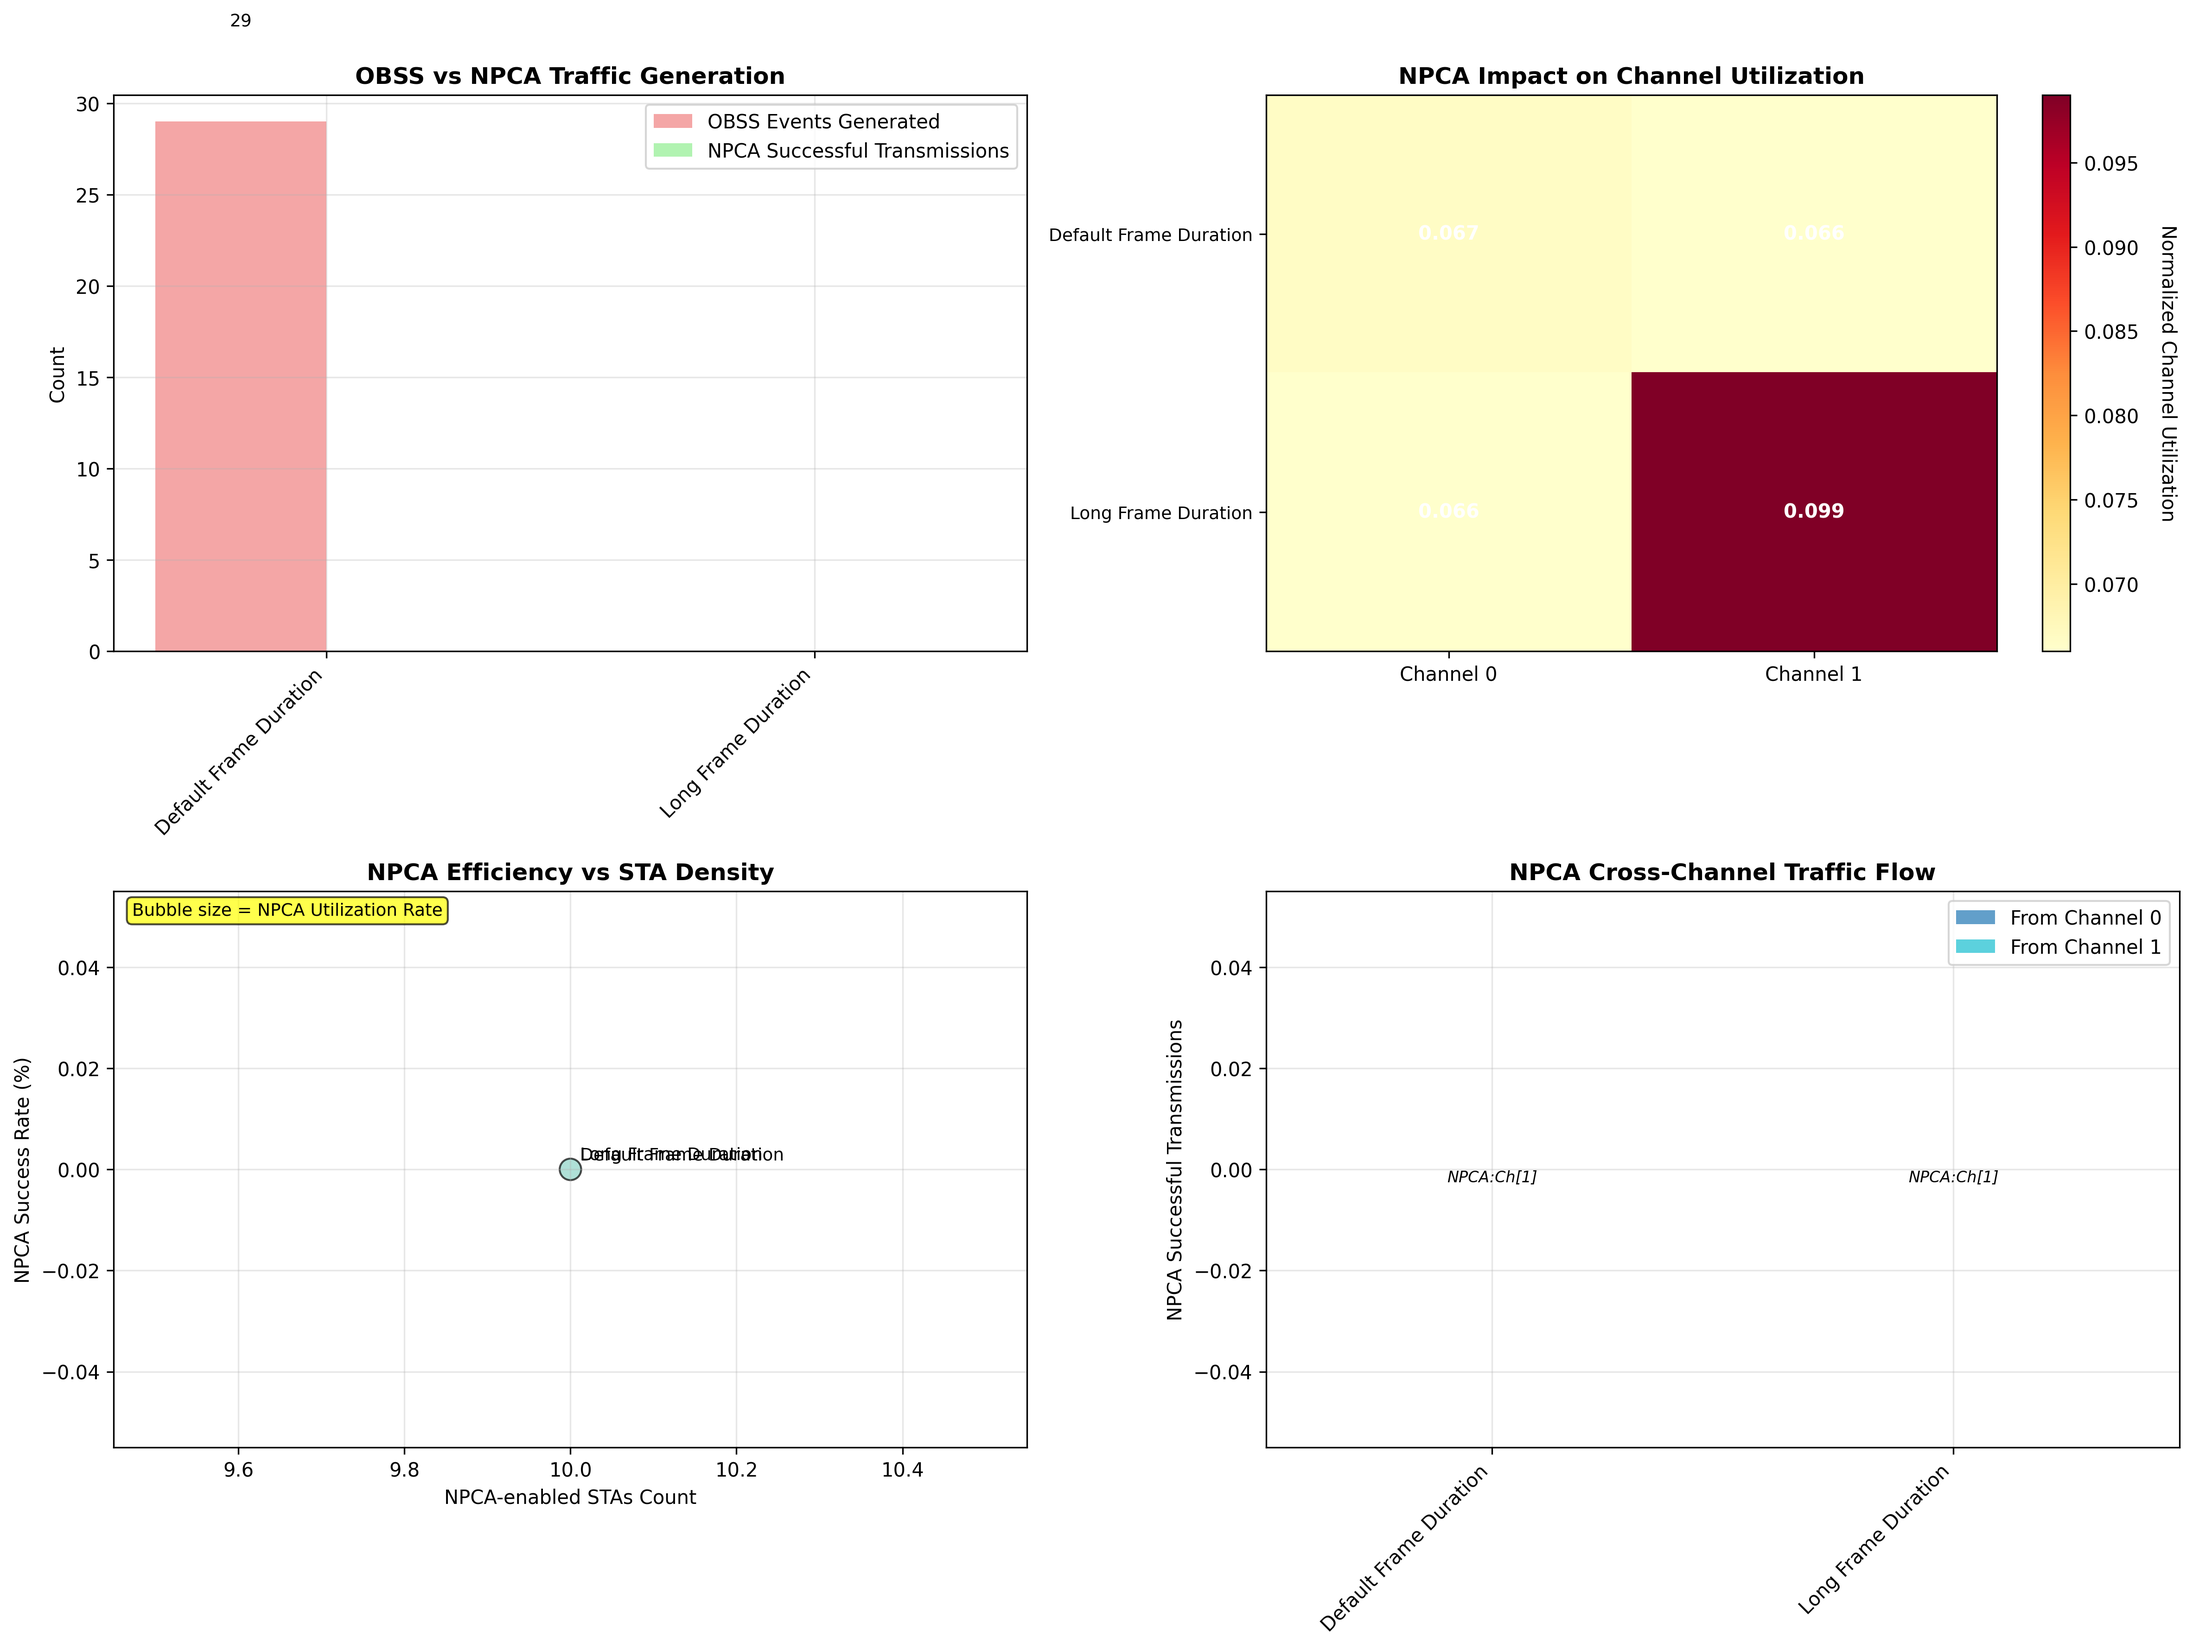
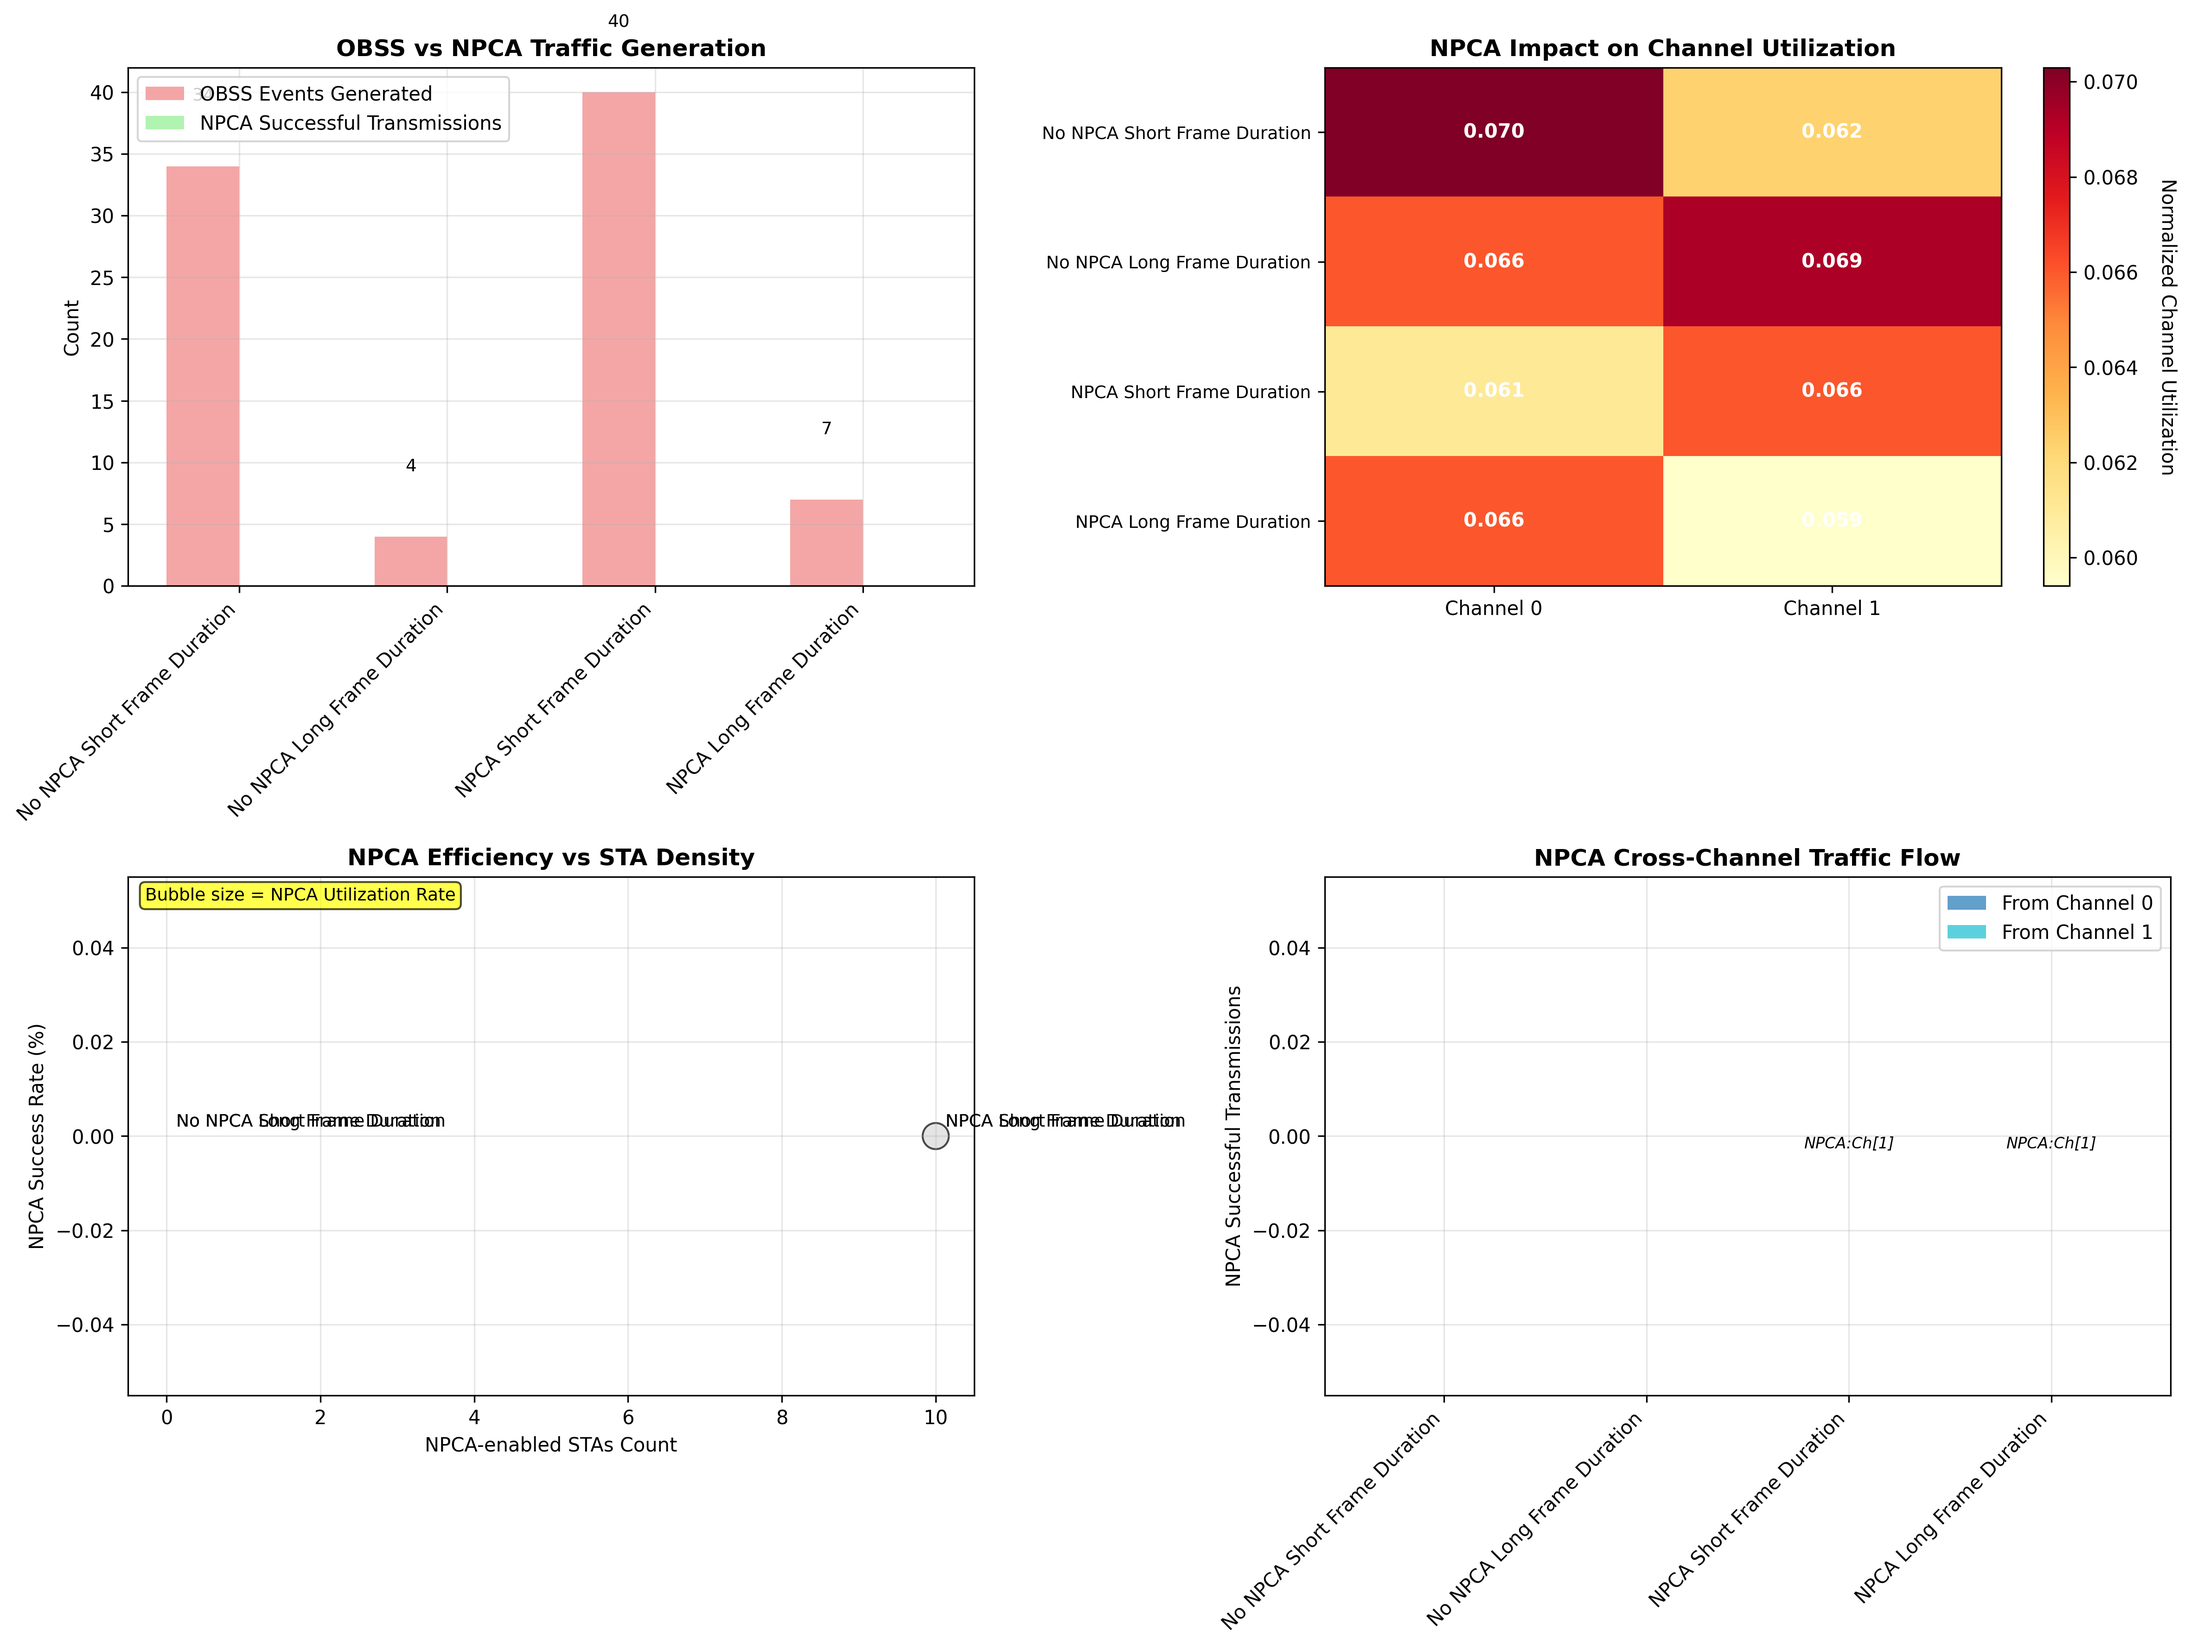
Ch1 -> Ch0으로 NPCA 전송시 점유하는 프레임 슬롯 길이에 문제 있음. (obss_simulation_npca_short_frame_duration.csv 참고)

diff --git a/random_access/configs.py b/random_access/configs.py
@@ -1,11 +1,32 @@
 # Configuration
 
-simulation_time = 10000  # Total simulation time in slots
+simulation_time = 10000  # Total simulation time in us
+simulation_slot = simulation_time // 9  # Slot duration in us (9us for 802.11ax)
 frame_size = 33  # Size of each frame in slots
 
 simulation_configs = [
     {
-        "label": "Default Frame Duration", 
+        "label": "No NPCA Short Frame Duration", 
+        "num_channels": 2,
+        "stas_per_channel": [10, 10],
+        "simulation_time": simulation_time,
+        "frame_size": frame_size,
+        "obss_enabled_per_channel": [False, True],  # 채널 1에서만 OBSS 활성화
+        "npca_enabled": [False, False],  # 채널 1에서만 NPCA 활성화
+        "obss_generation_rate": 0.01
+    },
+    {
+        "label": "No NPCA Long Frame Duration",
+        "num_channels": 2,
+        "stas_per_channel": [10, 10],
+        "simulation_time": simulation_time,
+        "frame_size": frame_size*10,
+        "obss_enabled_per_channel": [False, True],  # 채널 1에서만 OBSS 활성화
+        "npca_enabled": [False, False],  # 채널 1에서만 NPCA 활성화
+        "obss_generation_rate": 0.01
+    },
+    {
+        "label": "NPCA Short Frame Duration", 
         "num_channels": 2,
         "stas_per_channel": [10, 10],
         "simulation_time": simulation_time,
@@ -15,11 +36,11 @@ simulation_configs = [
         "obss_generation_rate": 0.01
     },
     {
-        "label": "Long Frame Duration",
+        "label": "NPCA Long Frame Duration",
         "num_channels": 2,
         "stas_per_channel": [10, 10],
         "simulation_time": simulation_time,
-        "frame_size": frame_size*100,
+        "frame_size": frame_size*10,
         "obss_enabled_per_channel": [False, True],  # 채널 1에서만 OBSS 활성화
         "npca_enabled": [False, True],  # 채널 1에서만 NPCA 활성화
         "obss_generation_rate": 0.01
